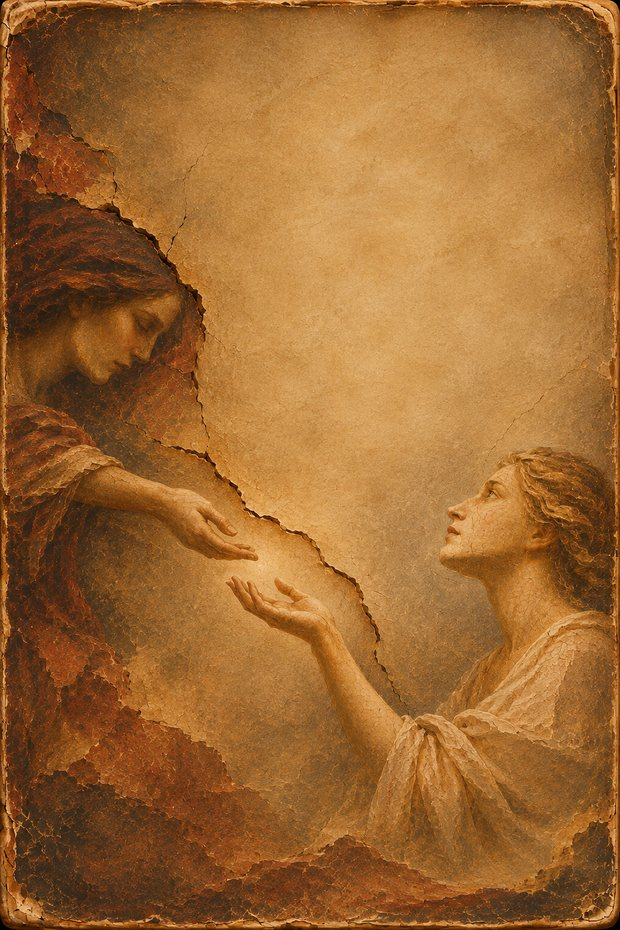
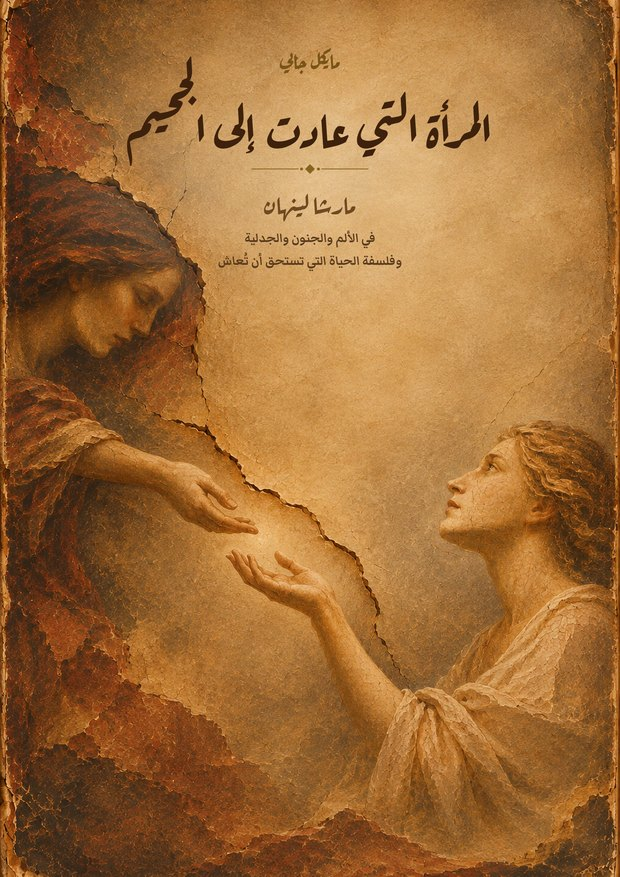
Books: «المرأة التي عادت إلى الجحيم» cover replaced with the approved new cover (page 1 of the final PDF), image cache-busted

diff --git a/books.html b/books.html
@@ -101,7 +101,7 @@
       <a href="https://wa.me/201124239057" target="_blank" rel="noopener" class="btn btn-ghost"><span class="lead-ar">استفسر على واتساب</span><span class="lead-en">Ask on WhatsApp</span></a>
     </div>
     <div class="hero-media reveal">
-      <a class="hmcover" href="#marsha" aria-label="المرأة التي عادت إلى الجحيم"><img src="assets/img/marsha-cover.jpg" alt="غلاف المرأة التي عادت إلى الجحيم — مارشا لينهان" loading="lazy" /></a>
+      <a class="hmcover" href="#marsha" aria-label="المرأة التي عادت إلى الجحيم"><img src="assets/img/marsha-cover.jpg?v=2" alt="غلاف المرأة التي عادت إلى الجحيم — مارشا لينهان" loading="lazy" /></a>
       <a class="hmcover" href="#riding-the-wave" aria-label="رُكوب الموج"><img src="assets/img/book-cover.jpg" alt="غلاف رُكوب الموج" loading="lazy" /></a>
       <a class="hmcover" href="#clear-mind-path" aria-label="طريق العقل الصافي"><img src="assets/img/clear-mind-cover.jpg" alt="غلاف طريق العقل الصافي" loading="lazy" /></a>
       <a class="hmcover" href="#mizan" aria-label="المِيزان"><img src="assets/img/mizan-cover.jpg" alt="غلاف المِيزان — ما الذي يستحق؟" loading="lazy" /></a>
@@ -129,7 +129,7 @@
   <div class="wrap">
     <div class="book-feature reveal">
       <div class="book-cover">
-        <img class="bcimg" src="assets/img/marsha-cover.jpg" alt="غلاف كتاب المرأة التي عادت إلى الجحيم — مارشا لينهان — مايكل جابي" loading="lazy" />
+        <img class="bcimg" src="assets/img/marsha-cover.jpg?v=2" alt="غلاف كتاب المرأة التي عادت إلى الجحيم — مارشا لينهان — مايكل جابي" loading="lazy" />
       </div>
       <div class="book-info">
         <div class="pt"><span class="lead-ar">إصدار جديد · متاح الآن</span><span class="lead-en">New Release · Available Now</span></div>
